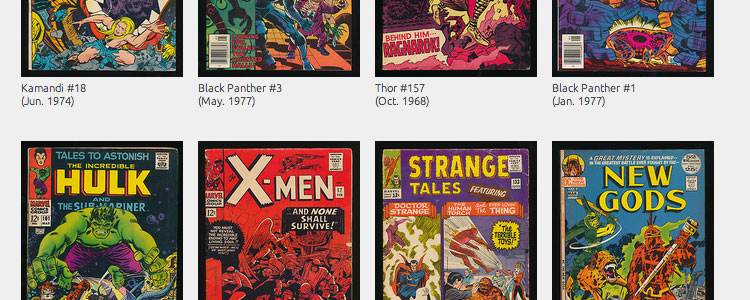
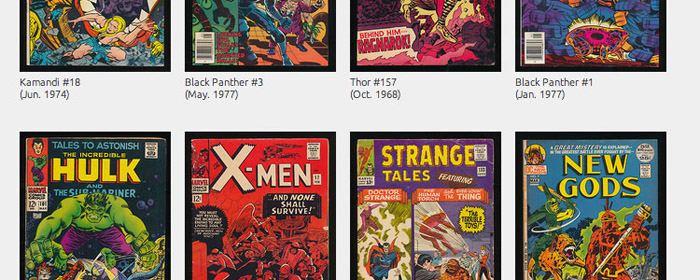
Column width change.

diff --git a/index.html b/index.html
@@ -81,8 +81,8 @@ $(window).load(function(){
 <div class="story">
 	<div id="nav" class="storywrapper">
 		<h3 class="h3">It was a wrong number that started it</h3>
-		<p class="p">Hi. My name is Vincent, and I'm a product designer at Shelby.tv.
-			I once made an <a href="#papercut">iOS game</a> and I used to work at <a href="http://barbariangroup.com/" target="_blank">The Barbarian Group</a>.I like to collect vintage <a href="#kirbycovers">comic books</a> drawn by Jack Kirby. <a href="mailto:vincentiadevaia@gmail.com" target="_blank"> Email me.</a></p> 
+		<p class="p">Hi. My name is Vincent, and I'm a UI/UX designer.
+			I once made an <a href="#papercut">iOS game</a> and I used to work at <a href="http://barbariangroup.com/" target="_blank">The Barbarian Group</a>. I like to collect vintage <a href="#kirbycovers">comic books</a> drawn by Jack Kirby. <a href="mailto:vincentiadevaia@gmail.com" target="_blank"> Email me.</a></p> 
 </div>
 <hr class="break" />
 <div class="image">
@@ -109,7 +109,7 @@ $(window).load(function(){
 		</div>
 		<h3 class="h3">Papercut!</a></h3>
 		<p class="p">Run, jump and slash your way through an ever changing cardboard world. We've recieved over 160,000 downloads and have been featured on the top ten list for free kids games in the UK and Australia. 
-			<br/><a href="https://itunes.apple.com/us/app/papercut!/id442103956?mt=8" target="_blank">Launch app store</a>
+		<a href="https://itunes.apple.com/us/app/papercut!/id442103956?mt=8" target="_blank">Launch app store</a>
 		 </p>
 </div>
 </div>

diff --git a/style.css b/style.css
@@ -64,7 +64,7 @@ a:active {color:#555555;}
 }
 .contactwrapper {
 	padding-top: 50px;
-	width: 760px;
+	width: 700px;
 	margin: auto;
 }
 .followul {
@@ -139,7 +139,7 @@ a:active {color:#555555;}
 }
 .imagewrapper {
 	padding-top: 50px;
-	width: 760px;
+	width: 700px;
 	margin: auto;
 }
 .p{
@@ -156,7 +156,7 @@ a:active {color:#555555;}
 	}
 .storywrapper {
 	padding-top: 50px;
-	max-width: 760px;
+	max-width: 700px;
 	margin: auto;
 }
 
